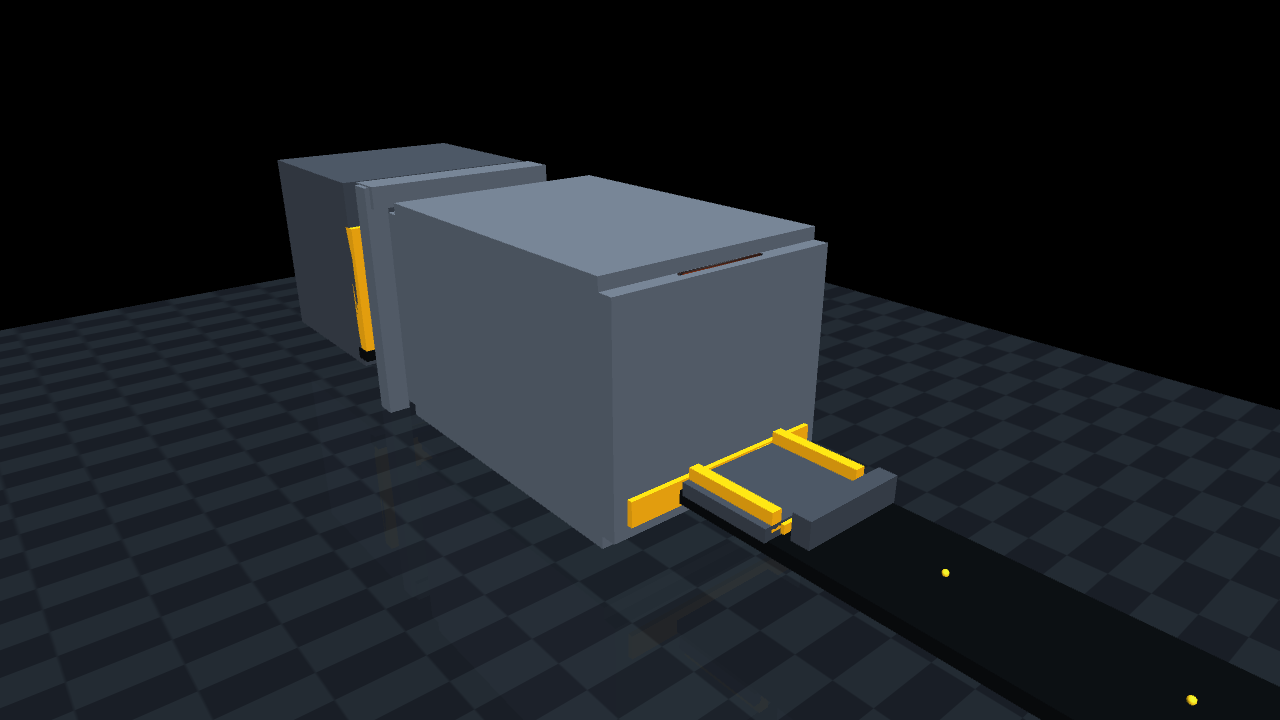
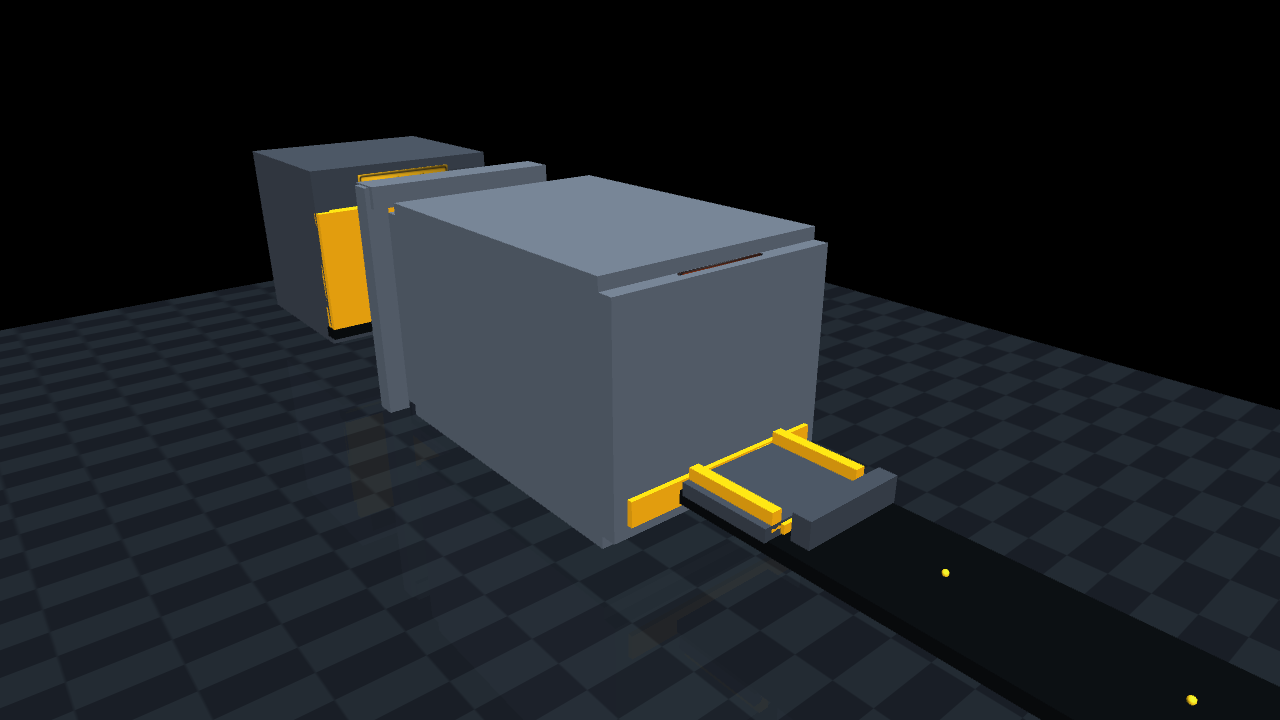
fix(v2): clear and support post-braze inspection
Closes #11

Changed region(s): [[0.1875, 0.1833, 0.4062, 0.5194]]

diff --git a/tests/v2/test_v2_dual_line_scene.py b/tests/v2/test_v2_dual_line_scene.py
@@ -38,6 +38,7 @@ def test_v2_table_supports_do_not_protrude_through_worktops(model) -> None:
         "v2_fin_table_b",
         "v2_station_s3b",
         "v2_station_s4",
+        "v2_post_braze_table",
     ):
         body_id = int(model.body(body_name).id)
         box_geoms = [
@@ -201,6 +202,81 @@ def test_v2_furnace_transfer_has_visible_lift_front_pusher_and_rear_extractor(mo
     ):
         model.joint(f"{mechanism}_joint")
         model.actuator(f"{mechanism}_actuator")
+
+
+def test_v2_post_braze_scan_has_a_full_flat_support_table(model) -> None:
+    """The complete pallet must rest on a dedicated unobstructed scan deck."""
+
+    import mujoco
+
+    data = mujoco.MjData(model)
+    mujoco.mj_forward(model, data)
+    table = model.geom("v2_post_braze_table_top")
+    tray = model.geom("v2_tray_01_geom")
+    dock = np.asarray(data.site("v2_post_braze_gantry_dock").xpos, dtype=float)
+    table_center = np.asarray(data.geom_xpos[table.id], dtype=float)
+    camera = np.asarray(data.camera("v2_post_braze_camera").xpos, dtype=float)
+
+    np.testing.assert_allclose(table_center[:2], dock[:2], atol=1.0e-9)
+    np.testing.assert_allclose(camera[:2], dock[:2], atol=1.0e-9)
+    assert float(table.size[0] - tray.size[0]) >= 0.02
+    assert float(table.size[1] - tray.size[1]) >= 0.02
+    table_top = float(table_center[2] + table.size[2])
+    tray_bottom = float(dock[2] + tray.pos[2] - tray.size[2])
+    assert 0.0005 <= tray_bottom - table_top <= 0.005
+
+
+def test_v2_finished_output_gate_clears_the_complete_post_scan_pallet(model) -> None:
+    """The closed yellow gate must sit beyond, never through, the scan pallet."""
+
+    import mujoco
+
+    data = mujoco.MjData(model)
+    mujoco.mj_forward(model, data)
+    scan_x = float(data.site("v2_post_braze_gantry_dock").xpos[0])
+    output_x = float(data.site("v2_finished_output_dock").xpos[0])
+    tray_half_x = float(model.geom("v2_tray_01_geom").size[0])
+    gate = model.geom("v2_finished_output_gate_panel")
+    gate_center_x = float(data.geom_xpos[gate.id, 0])
+    gate_half_x = float(gate.size[0])
+
+    scan_to_gate_clearance = gate_center_x - gate_half_x - (scan_x + tray_half_x)
+    assert scan_to_gate_clearance >= 0.15
+    assert output_x - tray_half_x - (gate_center_x + gate_half_x) >= 0.05
+
+    box = model.body("v2_finished_output_box")
+    floor = model.geom("v2_finished_output_box_floor")
+    np.testing.assert_allclose(
+        gate_center_x,
+        float(box.pos[0] - floor.size[0]),
+        atol=1.0e-9,
+    )
+
+
+def test_v2_rear_unload_mechanism_and_output_carriage_stay_below_the_tray(model) -> None:
+    """Supports may carry the pallet but must never render through its product."""
+
+    import mujoco
+
+    data = mujoco.MjData(model)
+    mujoco.mj_forward(model, data)
+    tray = model.geom("v2_tray_01_geom")
+    tray_bottom_z = 0.225 + float(tray.pos[2]) - float(tray.size[2])
+    for geom_name in (
+        "v2_furnace_rear_lift_platform",
+        "v2_furnace_rear_extractor_crossbar",
+        "v2_furnace_rear_extractor_fork_left",
+        "v2_furnace_rear_extractor_fork_right",
+        "v2_output_carriage_geom",
+    ):
+        geom = model.geom(geom_name)
+        top = float(data.geom_xpos[geom.id, 2] + geom.size[2])
+        assert top <= tray_bottom_z - 0.001, geom_name
+
+    output_joint = model.joint("v2_output_transfer_joint")
+    output_actuator = model.actuator("v2_output_transfer_actuator")
+    assert float(output_joint.range[1]) == pytest.approx(1.14)
+    assert float(output_actuator.ctrlrange[1]) == pytest.approx(1.14)
 
 
 def test_v2_front_lift_and_pusher_are_clear_of_the_closed_furnace_door(model) -> None:
@@ -775,6 +851,7 @@ def test_v2_visible_workcell_surfaces_never_share_an_overlapping_render_plane(mo
         "v2_station_s4",
         "v2_fin_table_a",
         "v2_fin_table_b",
+        "v2_post_braze_table",
     }
     for geom_id in range(model.ngeom):
         if model.geom_type[geom_id] != mujoco.mjtGeom.mjGEOM_BOX:

diff --git a/tests/v2/test_v2_dual_line_domain.py b/tests/v2/test_v2_dual_line_domain.py
@@ -31,6 +31,8 @@ def test_dual_line_topology_has_two_install_branches_and_one_forward_flow() -> N
     assert topology.successors("MERGE_A_WAIT") == ("Y_MERGE_SHARED",)
     assert topology.successors("MERGE_B_WAIT") == ("Y_MERGE_SHARED",)
     assert topology.successors("Y_MERGE_SHARED") == ("S4_PRE_BRAZE_INSPECTION",)
+    assert topology.station("POST_BRAZE_SCAN").world_xyz[:2] == (4.20, 0.00)
+    assert topology.station("FINISHED_OUTPUT").world_xyz[:2] == (4.92, 0.00)
     assert topology.route("S1_BASE_LOADING", "FINISHED_OUTPUT")[0] == "S1_BASE_LOADING"
     assert topology.route("S1_BASE_LOADING", "FINISHED_OUTPUT")[-1] == "FINISHED_OUTPUT"
     assert topology.validate() == ()

diff --git a/brazing_sim/dual_line/topology.py b/brazing_sim/dual_line/topology.py
@@ -59,7 +59,7 @@ class DualLineTopology:
             Station("FURNACE_LAYER_2", "炉内顶层", (3.45, 0.00, 0.505)),
             Station("FURNACE_REAR", "贯通炉后门", (3.78, 0.00, 0.225)),
             Station("POST_BRAZE_SCAN", "固定焊后视觉门架", (4.20, 0.00, 0.225)),
-            Station("FINISHED_OUTPUT", "成品出口", (4.64, 0.00, 0.225)),
+            Station("FINISHED_OUTPUT", "成品出口", (4.92, 0.00, 0.225)),
         )
         edges = {
             "S1_BASE_LOADING": ("S2A_DISPENSING",),

diff --git a/scripts/capture_v2_readme.py b/scripts/capture_v2_readme.py
@@ -182,8 +182,8 @@ def main() -> int:
                     application,
                     "v2_post_braze_output_current.png",
                     _camera(
-                        lookat=(4.28, 0.00, 0.34),
-                        distance=1.95,
+                        lookat=(4.52, 0.00, 0.34),
+                        distance=2.20,
                         azimuth=300,
                         elevation=-22,
                     ),

diff --git a/brazing_sim/dual_line/scene_adapter.py b/brazing_sim/dual_line/scene_adapter.py
@@ -784,7 +784,7 @@ class DualLineSceneAdapter:
             ),
             (TrayOwner.POST_SCAN, TrayOwner.OUTPUT): (
                 "v2_output_transfer_actuator",
-                0.860,
+                1.140,
             ),
         }
         now = float(self.data.time)
